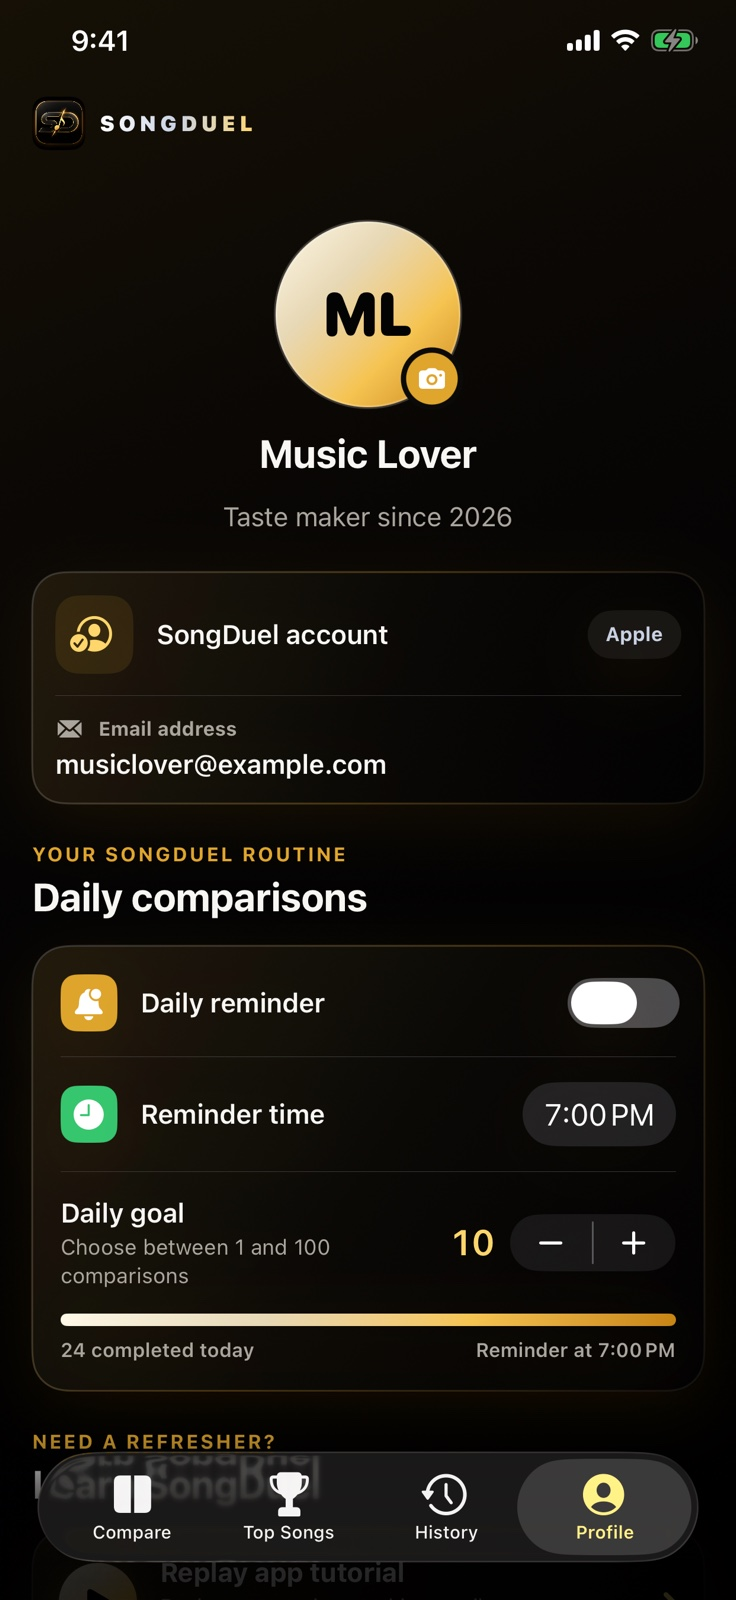
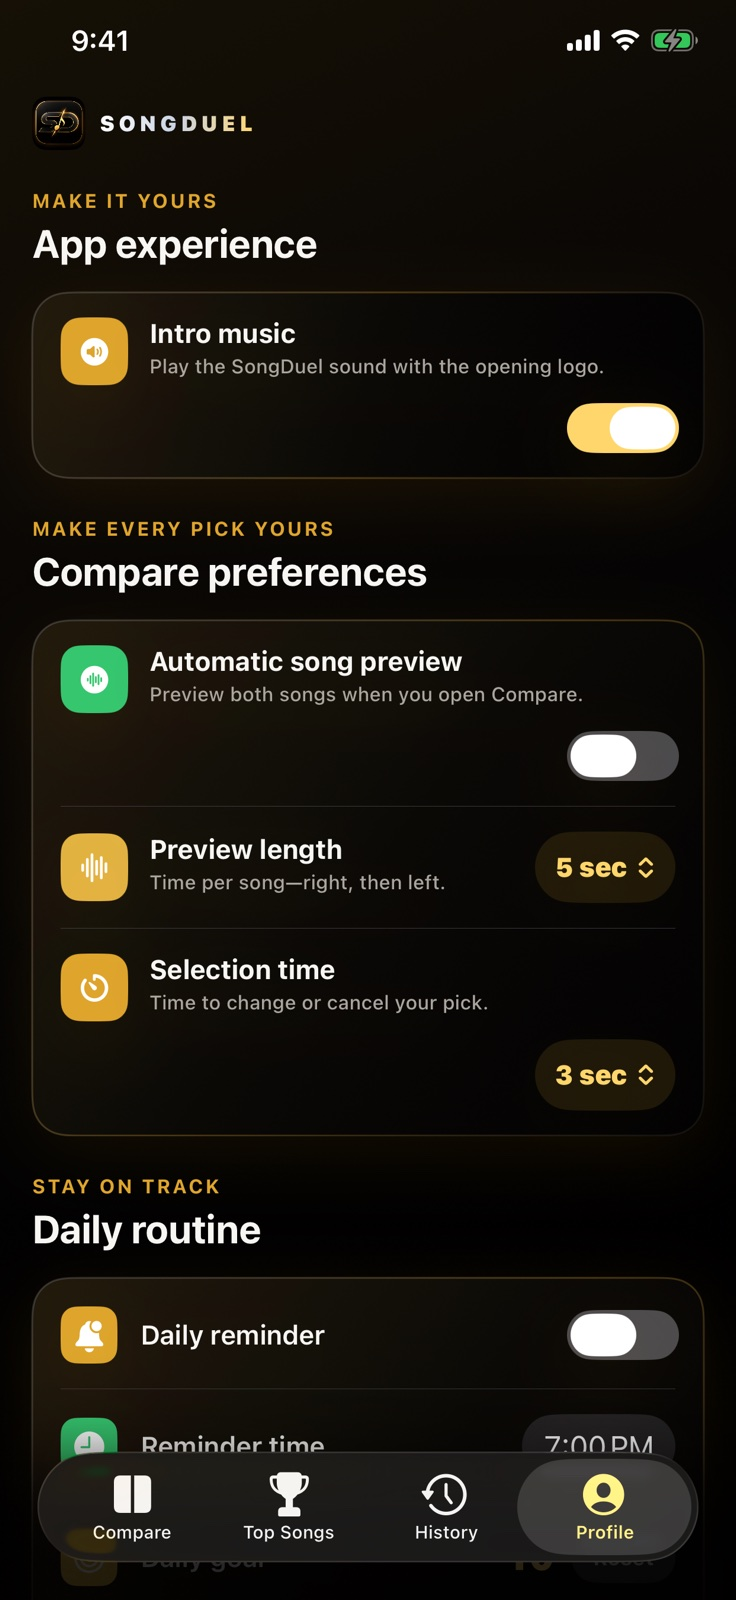
Sync website with SongDuel Build 14

diff --git a/index.html b/index.html
@@ -4,13 +4,17 @@
   <meta charset="utf-8">
   <meta name="viewport" content="width=device-width, initial-scale=1">
   <meta name="theme-color" content="#050403">
-  <meta name="description" content="SongDuel turns quick head-to-head choices into a personal ranking of the music you already love.">
+  <meta name="description" content="Rank your Apple Music songs head to head, hear optional previews, track movement and history, and tune every comparison in SongDuel.">
   <meta property="og:title" content="SongDuel — Your music. Your ranking.">
-  <meta property="og:description" content="Pick between two songs, watch your evolving Top 10 take shape, and build confidence with every comparison.">
+  <meta property="og:description" content="Duel your Apple Music songs, build an evolving Top 10, and personalize previews, pick timing, Daily Goal, and more.">
   <meta property="og:type" content="website">
   <meta property="og:url" content="https://songduel.app/">
   <meta property="og:image" content="https://songduel.app/assets/songduel-logo.png">
+  <meta property="og:image:alt" content="SongDuel app icon">
   <meta name="twitter:card" content="summary_large_image">
+  <meta name="twitter:title" content="SongDuel — Your music. Your ranking.">
+  <meta name="twitter:description" content="Duel your Apple Music songs and build a personal ranking that gets sharper with every pick.">
+  <meta name="twitter:image" content="https://songduel.app/assets/songduel-logo.png">
   <title>SongDuel — Your music. Your ranking.</title>
   <link rel="icon" href="assets/favicon.png" type="image/png">
   <link rel="apple-touch-icon" href="assets/apple-touch-icon.png">
@@ -118,13 +122,13 @@
             <div class="step-number">02</div>
             <div class="versus-mini" aria-hidden="true"><span>A</span><b>VS</b><span>B</span></div>
             <h3>Choose your favorite</h3>
-            <p>Tap either song card. During the short confirmation, tap again to cancel, switch your choice, or skip the matchup.</p>
+            <p>Choose a 3–10 second selection window. Tap again to cancel, choose the other song, or Skip and use the three-second Undo window.</p>
           </article>
           <article class="step-card" data-reveal>
             <div class="step-number">03</div>
             <div class="step-icon icon-podium" aria-hidden="true"><span></span><span></span><span></span></div>
             <h3>Watch your taste emerge</h3>
-            <p>Top Songs and History unlock after three picks. Your evolving Top 10 gets more confident as the evidence grows.</p>
+            <p>Three quick picks unlock Top Songs and History. SongDuel shows your warm-up progress, then celebrates each confidence milestone.</p>
           </article>
         </div>
       </div>
@@ -135,24 +139,27 @@
         <div class="demo-copy" data-reveal>
           <span class="kicker">The heart of SongDuel</span>
           <h2 id="demo-title">Don’t overthink it.<br><em>Pick one.</em></h2>
-          <p>Tap the song you want to hear. SongDuel’s Elo-based ranking adjusts to the strength of every matchup—not just raw win counts.</p>
+          <p>Tap the song you want to hear. The demo uses SongDuel’s default three-second selection window, so you can cancel or change your mind before the ranking updates.</p>
           <div class="demo-result" aria-live="polite" data-demo-result>
             <span>ROUND <b data-round>01</b></span>
             <p>Choose a track to see your ranking react.</p>
           </div>
         </div>
-        <div class="duel-stage" data-reveal>
-          <button class="duel-card duel-blue" type="button" data-choice="Midnight City" aria-label="Choose Midnight City by M83">
-            <span class="album-art"><i>M</i><b></b></span>
-            <span class="duel-meta"><strong>Midnight City</strong><small>M83 · Hurry Up, We’re Dreaming</small></span>
-            <span class="pick-label">Pick this song <i>→</i></span>
-          </button>
-          <div class="vs-badge" aria-hidden="true">VS</div>
-          <button class="duel-card duel-purple" type="button" data-choice="Pink + White" aria-label="Choose Pink + White by Frank Ocean">
-            <span class="album-art"><i>P</i><b></b></span>
-            <span class="duel-meta"><strong>Pink + White</strong><small>Frank Ocean · Blonde</small></span>
-            <span class="pick-label">Pick this song <i>→</i></span>
-          </button>
+        <div class="duel-demo" data-reveal>
+          <div class="duel-stage">
+            <button class="duel-card duel-blue" type="button" data-choice="Midnight City" aria-label="Choose Midnight City by M83">
+              <span class="album-art"><i>M</i><b></b></span>
+              <span class="duel-meta"><strong>Midnight City</strong><small>M83 · Hurry Up, We’re Dreaming</small></span>
+              <span class="pick-label">Pick this song <i>→</i></span>
+            </button>
+            <div class="vs-badge" aria-hidden="true">VS</div>
+            <button class="duel-card duel-purple" type="button" data-choice="Pink + White" aria-label="Choose Pink + White by Frank Ocean">
+              <span class="album-art"><i>P</i><b></b></span>
+              <span class="duel-meta"><strong>Pink + White</strong><small>Frank Ocean · Blonde</small></span>
+              <span class="pick-label">Pick this song <i>→</i></span>
+            </button>
+          </div>
+          <button class="demo-skip" type="button" data-demo-skip>Skip this matchup</button>
         </div>
       </div>
     </section>
@@ -188,21 +195,22 @@
             <ul>
               <li>Most compared and newest additions</li>
               <li>Monthly and yearly movers</li>
-              <li>Historical number ones and rankings</li>
+              <li>Confidence, stability, and historical number ones</li>
             </ul>
           </article>
           <article class="feature-panel copy-panel profile-copy" data-reveal>
-            <span class="feature-index">03 / YOUR ROUTINE</span>
-            <h3>Build the habit your way.</h3>
-            <p>Set a daily comparison goal, choose an optional reminder, and keep every account and learning control close at hand.</p>
+            <span class="feature-index">03 / YOUR EXPERIENCE</span>
+            <h3>Every duel, your way.</h3>
+            <p>Profile brings the sound, timing, routine, learning, music-service, and account controls together in one polished home.</p>
             <ul>
-              <li>Choose a daily goal from 1 to 100</li>
-              <li>Add an on-device profile photo</li>
-              <li>Replay the tutorial whenever you want</li>
+              <li>Optional previews: right song, then left, 5–30 seconds each</li>
+              <li>Selection time from 3–10 seconds; Skip has a three-second Undo</li>
+              <li>Daily Goal from 5–100 in steps of five, plus an optional reminder</li>
+              <li>Intro music, Apple Music sync, local photo, and replayable tutorial</li>
             </ul>
           </article>
           <div class="feature-panel image-panel profile-panel" data-reveal>
-            <div class="phone feature-phone"><div class="phone-island" aria-hidden="true"></div><img src="assets/screen-profile.jpg" alt="SongDuel Profile screen showing daily goal and reminder controls" loading="lazy" width="736" height="1600"></div>
+            <div class="phone feature-phone"><div class="phone-island" aria-hidden="true"></div><img src="assets/screen-profile.jpg" alt="SongDuel Profile screen showing intro music, automatic preview, preview length, selection time, and Daily Goal settings" loading="lazy" width="736" height="1600"></div>
           </div>
         </div>
         <div class="feature-strip" data-reveal>
@@ -245,7 +253,7 @@
         <div class="faq-list" data-reveal>
           <details>
             <summary>How does SongDuel rank my music?<span></span></summary>
-            <p>Each head-to-head pick updates both songs with an Elo-style rating. Your evolving Top 10 appears after a three-pick warm-up, with confidence milestones for the Top 3 at 250 picks, Top 6 at 500, and Top 10 at 1,000.</p>
+            <p>Each head-to-head pick updates both songs with an Elo-style rating. A guided three-pick warm-up unlocks Top Songs and History, then confidence milestones arrive for the Top 3 at 250 picks, Top 6 at 500, and Top 10 at 1,000.</p>
           </details>
           <details>
             <summary>Do I need an Apple Music subscription?<span></span></summary>
@@ -254,6 +262,10 @@
           <details>
             <summary>Are Most Listened songs part of my ranking?<span></span></summary>
             <p>No. Apple Music listening activity is shown separately and without rank numbers. Only your head-to-head SongDuel picks determine your evolving Top 10.</p>
+          </details>
+          <details>
+            <summary>Can I control previews and pick timing?<span></span></summary>
+            <p>Yes. Automatic song preview is optional and off by default. In Profile, choose 5, 10, 15, 20, 25, or 30 seconds per song; SongDuel previews the right song, then the left. You can also set the selection window from 3 to 10 seconds. Skip always includes a three-second Undo window.</p>
           </details>
           <details>
             <summary>Can I delete my data?<span></span></summary>

diff --git a/support.html b/support.html
@@ -22,12 +22,13 @@
         <article class="support-card"><span aria-hidden="true">?</span><h2>Still stuck?</h2><p>Email non-sensitive diagnostics so the support team can investigate.</p><a class="text-link" href="mailto:ssmk.consulting@icloud.com">Email support ↗</a></article>
       </div>
       <div class="legal-layout">
-        <aside class="legal-aside" aria-label="On this page"><strong>Quick links</strong><a href="#basics">Start here</a><a href="#apple-music">Apple Music</a><a href="#sync">Sync and rankings</a><a href="#account">Account and data</a><a href="#contact">Contact support</a></aside>
+        <aside class="legal-aside" aria-label="On this page"><strong>Quick links</strong><a href="#basics">Start here</a><a href="#apple-music">Apple Music</a><a href="#compare">Compare controls</a><a href="#sync">Sync and rankings</a><a href="#account">Account and data</a><a href="#contact">Contact support</a></aside>
         <article class="legal-copy">
           <section id="basics"><h2>Start with the basics</h2><ul><li>Confirm your iPhone has a working internet connection.</li><li>Update SongDuel and iOS to the latest available versions.</li><li>Force-quit SongDuel, reopen it, and leave it active briefly so sync can finish.</li><li>If a specific song has no preview, use its Apple Music button. Apple Music does not supply a preview for every track.</li></ul></section>
           <section id="apple-music"><h2>Apple Music connection</h2><ul><li>Open iOS Settings and confirm you are signed in under Media &amp; Purchases.</li><li>In the Music settings, turn on Sync Library.</li><li>Confirm SongDuel is allowed to access Media &amp; Apple Music.</li><li>Open Profile in SongDuel, disconnect Apple Music, and reconnect it if authorization has expired.</li><li>Full-song playback and some library features require an active Apple Music subscription.</li></ul><p>Disconnecting Apple Music does not delete or sign out your SongDuel account.</p></section>
-          <section id="sync"><h2>Library, ranking, and sync</h2><p>SongDuel saves picks offline first, so a comparison should not wait for the network. Cloud backup and restore occur separately after you sign in.</p><ul><li>SongDuel needs at least two eligible songs for a comparison. Top Songs and History unlock after three completed picks.</li><li>Your evolving Top 10 is an early estimate. Confidence milestones arrive for the Top 3 at 250 picks, Top 6 at 500, and Top 10 at 1,000.</li><li>Apple Music’s Most Listened Songs are displayed separately and do not determine your SongDuel ranking.</li><li>You can keep comparing while a large Apple Music library imports; SongDuel displays live progress as it runs.</li><li>If your daily progress is unexpected, check the Daily goal in Profile; it can be set from 1 to 100 comparisons.</li></ul></section>
-          <section id="account"><h2>Account and data controls</h2><p>Open Profile in SongDuel to add or remove an on-device profile photo, replay the tutorial, disconnect Apple Music, clear app data without signing out, log out, or permanently delete your SongDuel account. Permanent deletion requires confirmation with the same Apple Account so SongDuel can revoke its Sign in with Apple grant before removing associated cloud data, subject to limited security, legal, and backup retention described in the <a href="privacy.html">Privacy Policy</a>.</p></section>
+          <section id="compare"><h2>Compare controls</h2><ul><li>Automatic song preview is optional and off by default. Enable it in Profile under Compare preferences.</li><li>Automatic preview plays the right song first, then the left. Choose 5, 10, 15, 20, 25, or 30 seconds per song.</li><li>Manual playback, leaving Compare, switching tabs, or putting the app in the background stops the automatic preview session.</li><li>Selection time controls how long you have to cancel or change a pick. Choose any whole-second value from 3 to 10 seconds; the default is 3 seconds.</li><li>Skip starts a fixed three-second grace period. Tap Undo—or choose either song—before it expires to keep the matchup.</li><li>Intro music controls whether the SongDuel opening logo plays its sound at launch.</li></ul></section>
+          <section id="sync"><h2>Library, ranking, and sync</h2><p>SongDuel saves picks offline first, so a comparison should not wait for the network. Cloud backup and restore occur separately after you sign in.</p><ul><li>SongDuel needs at least two eligible songs for a comparison. Top Songs and History show locked tabs until three completed picks; tap either tab to see your warm-up progress and return to Compare.</li><li>Your evolving Top 10 is an early estimate. Confidence milestones arrive for the Top 3 at 250 picks, Top 6 at 500, and Top 10 at 1,000, with an in-app celebration at each milestone.</li><li>Apple Music’s Most Listened Songs are displayed separately and do not determine your SongDuel ranking.</li><li>You can keep comparing while a large Apple Music library imports; SongDuel displays live progress as it runs.</li><li>In Profile, Automatic preference sync can keep supported Apple Music preference and listening signals current, or you can use Sync music preferences now.</li><li>If your daily progress is unexpected, check Daily Goal in Profile. It can be set from 5 to 100 comparisons in steps of five, with a default of 10.</li></ul></section>
+          <section id="account"><h2>Account and data controls</h2><p>Open Profile in SongDuel to add or remove an on-device profile photo, replay the tutorial, disconnect Apple Music while keeping or deleting your personal ranking, clear app data without signing out, log out, or permanently delete your SongDuel account. Disconnecting never changes your Apple Music library. Permanent deletion requires confirmation with the same Apple Account so SongDuel can revoke its Sign in with Apple grant before removing associated cloud data, subject to limited security, legal, and backup retention described in the <a href="privacy.html">Privacy Policy</a>.</p></section>
           <section id="contact"><h2>Contact support</h2><p>Email <a href="mailto:ssmk.consulting@icloud.com">ssmk.consulting@icloud.com</a> and include:</p><ul><li>a short description of what happened and what you expected;</li><li>the SongDuel app version;</li><li>your iPhone model and iOS version; and</li><li>steps that reliably reproduce the problem, if known.</li></ul><p class="legal-note"><strong>Do not send secrets.</strong> Never include passwords, Apple credentials, authentication tokens, private relay addresses, or personal music history.</p><p>Support requests are reviewed as soon as practical. SongDuel is operated by SSMK Consulting LLC in South Carolina, United States.</p></section>
         </article>
       </div>

diff --git a/script.js b/script.js
@@ -38,17 +38,82 @@ if ('IntersectionObserver' in window && !window.matchMedia('(prefers-reduced-mot
 const choiceButtons = document.querySelectorAll('[data-choice]');
 const result = document.querySelector('[data-demo-result] p');
 const roundLabel = document.querySelector('[data-round]');
+const skipButton = document.querySelector('[data-demo-skip]');
 let round = 1;
+let pendingChoice = null;
+let actionTimer = null;
+let countdownTimer = null;
+
+const clearTimers = () => {
+  window.clearTimeout(actionTimer);
+  window.clearInterval(countdownTimer);
+  actionTimer = null;
+  countdownTimer = null;
+};
+
+const resetDemoActions = () => {
+  clearTimers();
+  pendingChoice = null;
+  choiceButtons.forEach((item) => item.classList.remove('selected'));
+  skipButton?.classList.remove('pending');
+  if (skipButton) skipButton.textContent = 'Skip this matchup';
+};
+
+const advanceRound = () => {
+  round += 1;
+  if (roundLabel) roundLabel.textContent = String(round).padStart(2, '0');
+};
+
+const beginCountdown = (onTick) => {
+  let seconds = 3;
+  onTick(seconds);
+  countdownTimer = window.setInterval(() => {
+    seconds -= 1;
+    if (seconds > 0) onTick(seconds);
+  }, 1000);
+};
 
 choiceButtons.forEach((button) => {
   button.addEventListener('click', () => {
-    choiceButtons.forEach((item) => item.classList.remove('selected'));
+    if (pendingChoice === button) {
+      resetDemoActions();
+      if (result) result.textContent = 'Pick canceled. The matchup is still yours to decide.';
+      return;
+    }
+
+    resetDemoActions();
+    pendingChoice = button;
     button.classList.add('selected');
-    round += 1;
-    if (roundLabel) roundLabel.textContent = String(round).padStart(2, '0');
-    if (result) result.textContent = `${button.dataset.choice} wins. Your live ranking just got a little sharper.`;
-    window.setTimeout(() => button.classList.remove('selected'), 900);
+    beginCountdown((seconds) => {
+      if (result) result.textContent = `${button.dataset.choice} selected — ${seconds} second${seconds === 1 ? '' : 's'} to cancel or switch.`;
+    });
+    actionTimer = window.setTimeout(() => {
+      const winner = button.dataset.choice;
+      resetDemoActions();
+      advanceRound();
+      if (result) result.textContent = `${winner} wins. Your live ranking just got a little sharper.`;
+    }, 3000);
   });
+});
+
+skipButton?.addEventListener('click', () => {
+  if (skipButton.classList.contains('pending')) {
+    resetDemoActions();
+    if (result) result.textContent = 'Skip undone. Keep this matchup or pick either song.';
+    return;
+  }
+
+  resetDemoActions();
+  skipButton.classList.add('pending');
+  beginCountdown((seconds) => {
+    skipButton.textContent = `Undo skip · ${seconds}`;
+    if (result) result.textContent = `Skip pending — ${seconds} second${seconds === 1 ? '' : 's'} to undo or choose a song.`;
+  });
+  actionTimer = window.setTimeout(() => {
+    resetDemoActions();
+    advanceRound();
+    if (result) result.textContent = 'Matchup skipped. No winner was recorded.';
+  }, 3000);
 });
 
 document.querySelectorAll('[data-year]').forEach((node) => {

diff --git a/privacy.html b/privacy.html
@@ -44,7 +44,7 @@
             <h3>Music and ranking data</h3>
             <p>SongDuel processes Apple Music metadata from the library and playlists you connect, including songs, artists, albums, playlists, artwork, provider identifiers, favorites when available, recent-listening, Replay, recommendation, and availability details. It stores this music metadata and the preference results associated with your SongDuel account so it can sync and restore your experience.</p>
             <h3>Product interaction</h3>
-            <p>SongDuel stores your comparison choices, ranking changes, skips, scores, ranking snapshots, manually selected favorites, sync status, and playlist publishing state to operate and personalize your rankings.</p>
+            <p>SongDuel stores your comparison choices, ranking changes, skips, scores, ranking snapshots, manually selected favorites, sync status, and playlist publishing state to operate and personalize your rankings. Experience preferences such as intro music, automatic preview, preview length, selection time, Daily Goal, and reminder settings are stored on your device.</p>
             <h3>Connected-service data</h3>
             <p>Apple Music authorization and user tokens are managed by Apple and MusicKit. SongDuel requests Apple Music access separately from account sign-in. Revoking music access does not delete or sign out your SongDuel account.</p>
             <h3>Website and technical data</h3>
@@ -75,7 +75,7 @@
           </section>
           <section id="choices">
             <h2>Your choices and rights</h2>
-            <p>From Profile in the app, you can manage your local profile photo, replay the tutorial, disconnect Apple Music, delete local and cloud app data without signing out, log out, or permanently delete your SongDuel account. You can also manage Apple Music permission in iOS Settings. Daily reminder notifications are optional and are requested only after you enable them.</p>
+            <p>From Profile in the app, you can manage your local profile photo, replay the tutorial, choose automatic or manual Apple Music preference sync, disconnect Apple Music while keeping or deleting your personal ranking, delete local and cloud app data without signing out, log out, or permanently delete your SongDuel account. You can also manage Apple Music permission in iOS Settings. Daily reminder notifications are optional and are requested only after you enable them.</p>
             <p>Depending on where you live, you may have rights to access, correct, delete, restrict, object to, or receive a copy of personal information. We may need to verify your request before acting.</p>
             <h3>Children</h3>
             <p>SongDuel is not directed to children under 13 and we do not knowingly collect personal information from children under 13.</p>

diff --git a/styles.css b/styles.css
@@ -226,6 +226,7 @@ h2 em, h1 span { color: var(--gold-bright); font-style: normal; }
 .demo-result { margin-top: 34px; padding: 18px; border-left: 2px solid var(--gold); background: linear-gradient(90deg, rgba(223,165,44,.09), transparent); }
 .demo-result span { color: var(--gold); font-size: .67rem; font-weight: 850; letter-spacing: .15em; }
 .demo-result p { margin: 5px 0 0; color: #cfcbc4; font-size: .9rem; }
+.duel-demo { min-width: 0; }
 .duel-stage { position: relative; display: grid; grid-template-columns: 1fr 1fr; gap: 14px; }
 .duel-card { min-width: 0; padding: 14px 14px 20px; text-align: left; border: 1px solid rgba(255,255,255,.1); background: linear-gradient(145deg, #12100c, #070706); border-radius: 26px; cursor: pointer; transition: transform .25s, border-color .25s, box-shadow .25s; }
 .duel-card:hover, .duel-card.selected { transform: translateY(-7px); border-color: rgba(255,214,107,.48); box-shadow: 0 22px 55px rgba(0,0,0,.4), 0 0 36px rgba(223,165,44,.08); }
@@ -243,6 +244,9 @@ h2 em, h1 span { color: var(--gold-bright); font-style: normal; }
 .pick-label { display: flex; justify-content: space-between; align-items: center; margin: 0 7px; padding-top: 13px; border-top: 1px solid rgba(255,255,255,.08); color: #99958e; font-size: .72rem; font-weight: 750; text-transform: uppercase; letter-spacing: .08em; }
 .pick-label i { color: var(--gold-bright); font-style: normal; }
 .vs-badge { position: absolute; z-index: 3; left: 50%; top: 42%; transform: translate(-50%, -50%); display: grid; place-items: center; width: 52px; height: 52px; border: 3px solid #fff3ca; border-radius: 50%; color: #111; background: linear-gradient(145deg, #fff6d9, #edae25); font-size: .75rem; font-weight: 950; box-shadow: 0 0 34px rgba(223,165,44,.5); }
+.demo-skip { width: 100%; min-height: 54px; margin-top: 14px; border: 1px solid rgba(255,214,107,.38); border-radius: 17px; color: #080603; background: linear-gradient(110deg, #fff4d1, #e9a515); font-weight: 900; cursor: pointer; transition: color .2s, background .2s, border-color .2s, transform .2s; }
+.demo-skip:hover { transform: translateY(-2px); }
+.demo-skip.pending { color: var(--gold-bright); border-color: rgba(255,214,107,.72); background: linear-gradient(145deg, #171006, #050403); }
 
 .features { background: linear-gradient(#090704, #030303 42%); }
 .feature-showcase { display: grid; grid-template-columns: 1fr 1fr; gap: 18px; }
